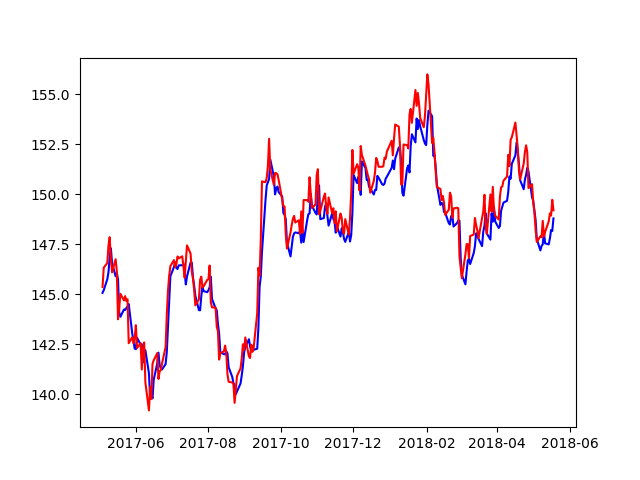
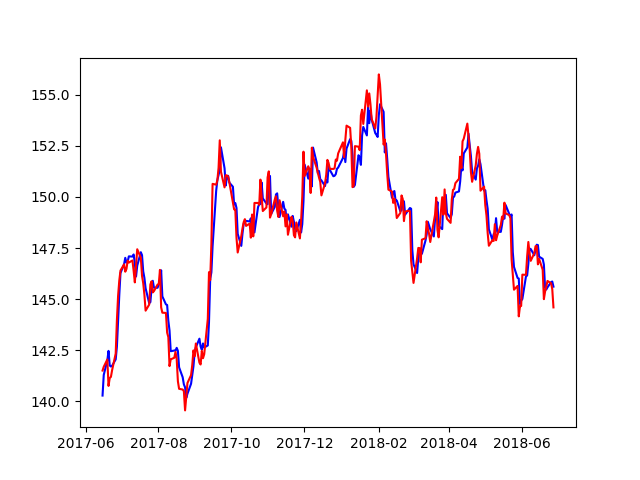
modi

diff --git a/load_test_model.py b/load_test_model.py
@@ -141,7 +141,7 @@ def createDataset(dataset, original_dataset, window_size, learning_span, output_
     input_train_data = []
     output_train_data = []
     time_list = []
-    for i in range(0, learning_span-(window_size+1)):
+    for i in range(0, learning_span-(window_size+output_train_index)):
 
         temp = []
         temp_index = 0
@@ -195,9 +195,12 @@ min_list = []
 max_price = max(original_dataset["end"])
 min_price = min(original_dataset["end"])
 
-for col in original_dataset:
-    max_list.append(max(original_dataset[col]))
-    min_list.append(min(original_dataset[col]))
+df = original_dataset.copy()
+del df["time"]
+
+for col in df:
+    max_list.append(max(df[col]))
+    min_list.append(min(df[col]))
 
 max_list = pd.DataFrame(max_list)
 min_list = pd.DataFrame(min_list)
@@ -207,7 +210,7 @@ max_list = max_list.T
 min_list = min_list.T
 
 test_base_time = change_to_ptime(base_time="2018-07-31 00:00:00")
-test_original_dataset, test_value_dataset = getDataSet(test_base_time, connector, window_size=30, learning_span=0, output_train_index=0)
+test_original_dataset, test_value_dataset = getDataSet(test_base_time, connector, window_size=30, learning_span=30, output_train_index=0)
 
 # 訓練データの最大、最小値を追加して、正規化する
 # 正規化後はdropする
@@ -230,7 +233,8 @@ input_test_data = np.array(input_test_data)
 model_filename = "model.json"
 weights_filename = "model_weights.hdf5"
 
-model = model_from_json(model_filename)
+json_string = open(model_filename).read()
+model = model_from_json(json_string)
 model.load_weights(weights_filename)
 
 predict = model.predict(input_test_data)

diff --git a/train_save_model.py b/train_save_model.py
@@ -188,8 +188,12 @@ output_train_index = 1
 original_dataset, value_dataset = getDataSet(train_base_time, connector, window_size=30, learning_span=300, output_train_index=1)
 df = pd.DataFrame(value_dataset.copy())
 
+max_price = max(original_dataset["end"])
+min_price = min(original_dataset["end"])
+
 value_dataset = change_to_normalization(value_dataset)
 input_train_data, output_train_data, time_list = createDataset(value_dataset, original_dataset, window_size=30, learning_span=300, output_train_index=1, output_flag=True)
+
 
 
 np.random.seed(202)
@@ -199,7 +203,7 @@ history = model.fit(input_train_data, output_train_data, epochs=50, batch_size=1
 # モデルの保存
 json_string = model.to_json()
 open("model.json", "w").write(json_string)
-model.save_weights("model_weigths.hdf5")
+model.save_weights("model_weights.hdf5")
 
 
 
